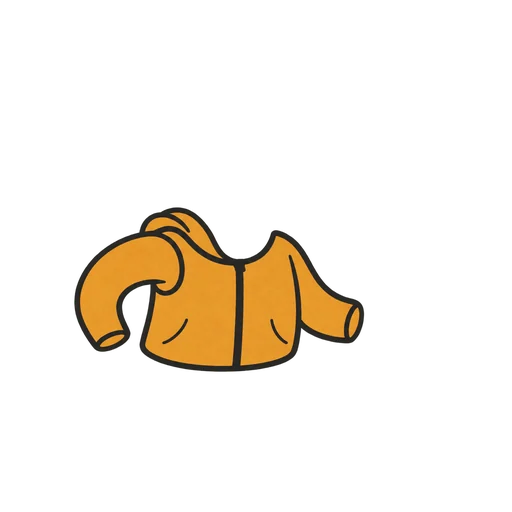
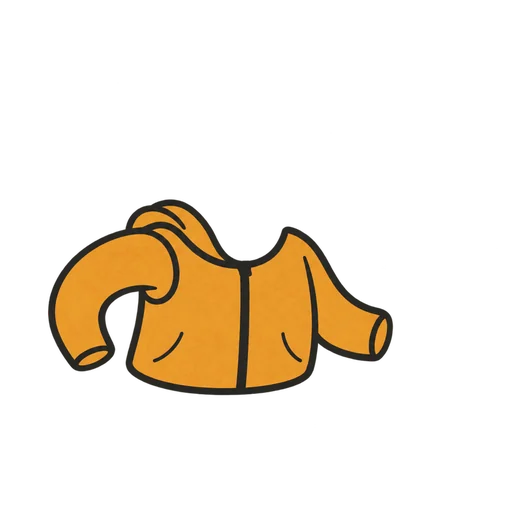
Make the duck's raincoat and neck warmer bigger
Re-placed from the original drawings at 110 % (raincoat, now covering the
whole torso) and 100 % (neck warmer, filling the neck), keeping the
fitted positions.

Changed region(s): [[0.0938, 0.375, 0.7812, 0.7812]]

diff --git a/src/assets/duck-outfit/README.md b/src/assets/duck-outfit/README.md
@@ -9,7 +9,8 @@ The pieces were drawn by ChatGPT from the brief in `design/duck-art-brief/`
 duck: the scale and position that best covers that garment's zone (torso,
 arms, hands, head, neck, hips and legs) was kept when it clearly helped. The
 originals stay as drawn for the vest, gloves, light gloves, mittens, tee, long sleeve,
-thermal layers, cap, headlamp, sunglasses and ice cleats. They were then
+thermal layers, cap, headlamp, sunglasses and ice cleats. The raincoat (110 %) and neck warmer (100 %) were then sized up by hand
+after a look on the phone, because the automatic fit made them too small. They were then
 scaled to 512 × 512 WebP (about 8 KB each).
 
 - **Swap a piece:** replace `<item>.webp` with a transparent image the same
